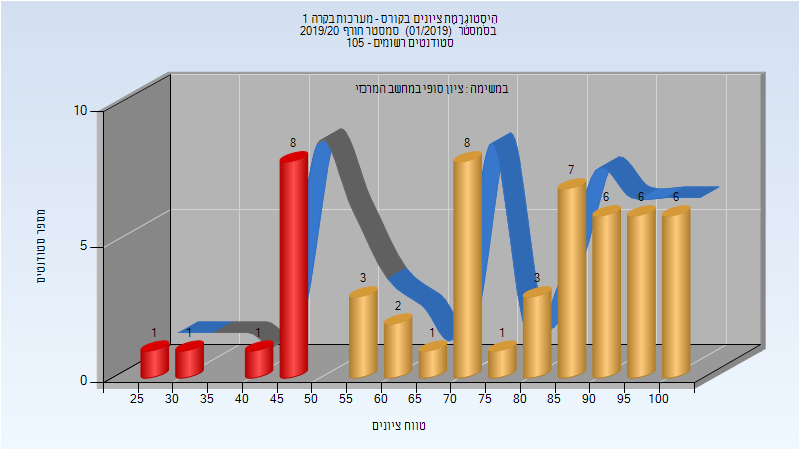
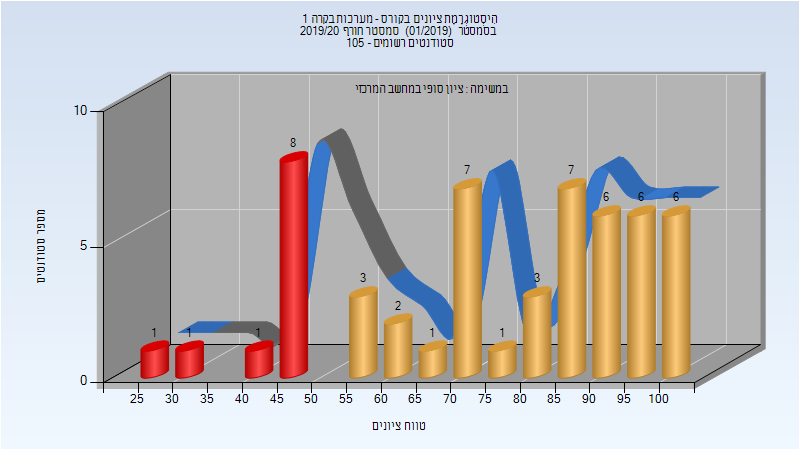
Deploy michael-maltsev/technion-histograms to github.com/michael-maltsev/technion-histograms.git:gh-pages

Changed region(s): [[0.5625, 0.28, 0.6875, 0.5289]]

diff --git a/044191/index.html b/044191/index.html
@@ -532,8 +532,8 @@
 <td>86</td>
 <td>29</td>
 <td>100</td>
-<td>75.667</td>
-<td>82.5</td>
+<td>75.774</td>
+<td>83</td>
 </tr>
 </tbody>
 </table>

diff --git a/044191/README.md b/044191/README.md
@@ -162,7 +162,7 @@
 
 | סטודנטים | עברו/נכשלו | אחוז עוברים | ציון מינימלי | ציון מקסימלי | ממוצע | חציון |
 | ---- | ---- | ---- | ---- | ---- | ---- | ---- |
-| 77 | 66/11 | 86 | 29 | 100 | 75.667 | 82.5 |
+| 77 | 66/11 | 86 | 29 | 100 | 75.774 | 83 |
 
 ## אביב 2020
 
